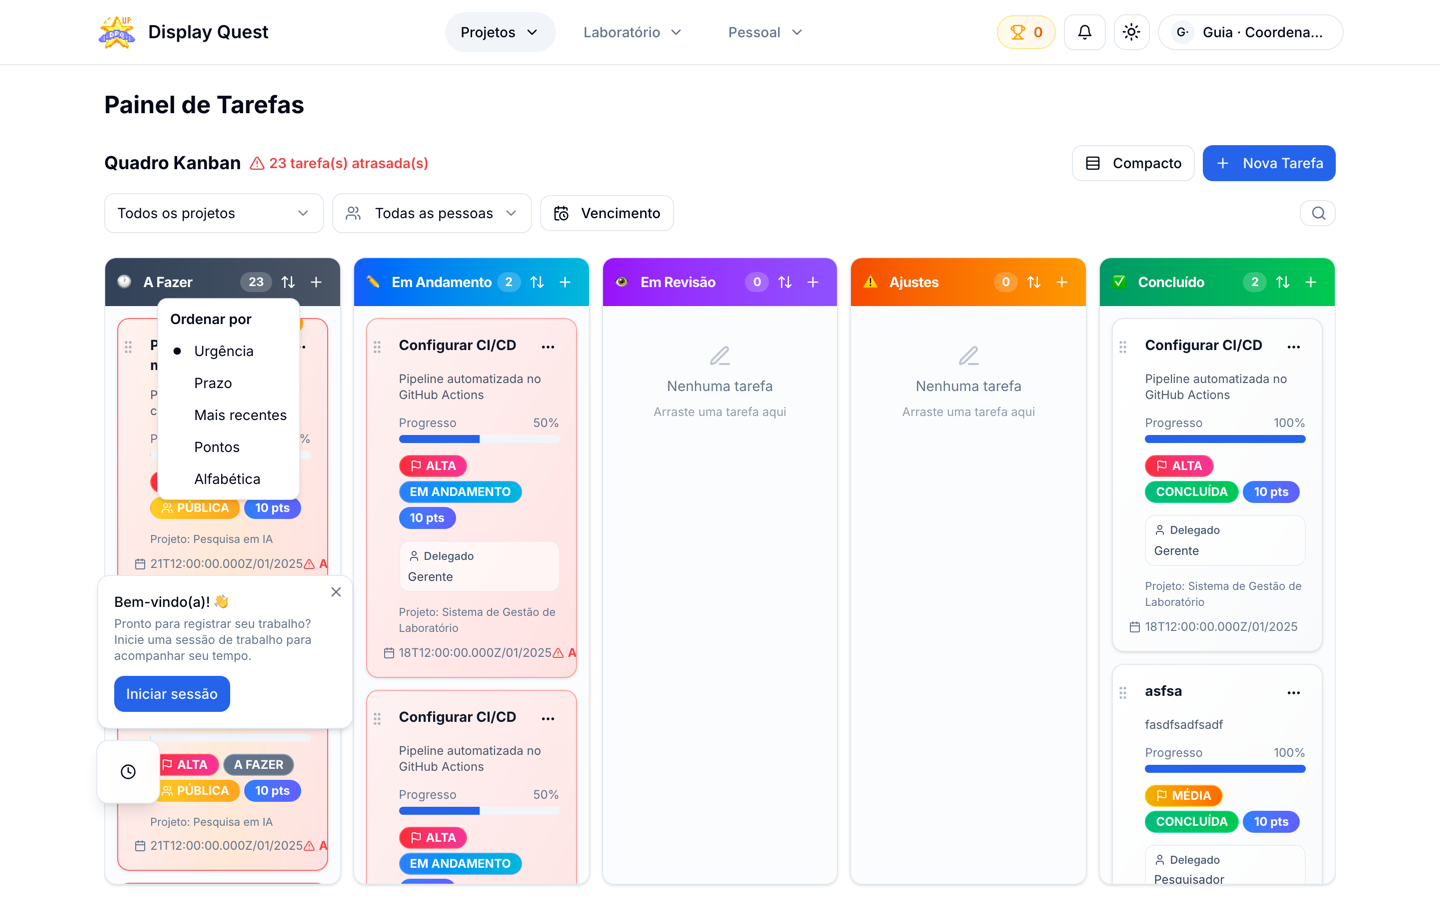
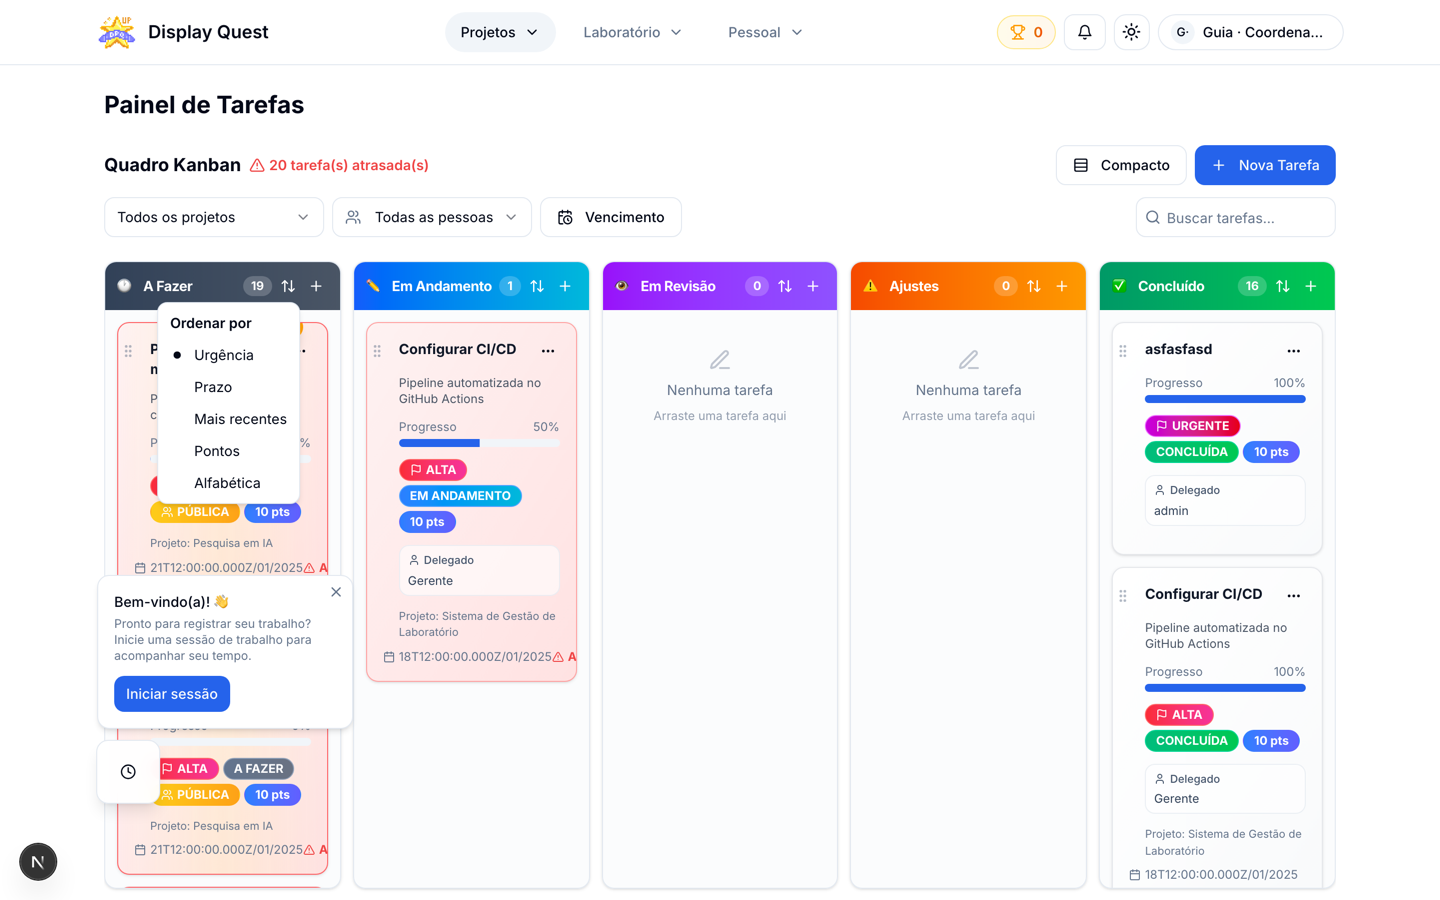
fix(tasks): o buscador do quadro ja nasce aberto no desktop e a barra inteira fica em h-10
Pedido do dono: a lupa-toggle do quadro "esta muito escondido (e com o height errado)". Medido: o
contêiner era w-9 com ~26px de altura numa fileira cujos vizinhos sao SelectTrigger de h-10 — o
campo de busca era o unico elemento baixo da barra, e o unico que exigia um clique so para existir.
No desktop (>= sm, 640px) ele agora nasce aberto em h-10 e sem toggle; no mobile o comportamento
antigo permanece intacto.

- useIsDesktop() (useSyncExternalStore sobre matchMedia) decide SO `tabIndex` e o collapse de blur.
  A visibilidade e CSS puro — `sm:w-[200px]` no contêiner, `sm:hidden` na lupa — entao nao ha flash
  de hidratacao. CSS e JS precisam concordar: se divergirem, o campo aparece aberto com tabIndex=-1 e
  o TECLADO nao o alcanca (a lupa esta em display:none, logo nao ha como clicar para abri-lo).
  Duas subarvores por breakpoint foram descartadas de proposito: duplicariam o aria-label do campo,
  e no jsdom (sem CSS carregado) as duas ficariam "visiveis" — getByRole("textbox") acharia dois.
- Os 4 `Button size="sm"` (h-9) da barra perderam o size e ficaram h-10, alinhados aos SelectTrigger.
  O `Button` global nao foi tocado — a mudanca e local do board-toolbar.
- O X de limpar so aparece com texto: com o campo sempre aberto ele ficaria visivel o tempo todo.

Medido no navegador (dev server, viewport real): desktop 200x40 aberto com o toggle ausente;
mobile 36x40 recolhido com o toggle presente; "Vencimento" e o Select de pessoas em 40 nos dois.
[…]

diff --git a/features/tasks/components/board-toolbar.tsx b/features/tasks/components/board-toolbar.tsx
@@ -5,10 +5,10 @@
  *  - overdue banner contrast (text-destructive on plain background — D-15.3)
  *  - action row wraps at 320px (legacy overflow fix, CP-1 observation)
  *  - filters are nuqs-backed (URL is source of truth)
- *  - search is an expanding icon (magnifier → input, GitHub-style)
+ *  - search is expanded by default on desktop (≥ `sm`); the magnifier toggle is mobile-only
  *  - "Atribuídas a mim" subsumed by the people select (current user = "(você)")
  */
-import { useRef, useState } from "react"
+import { useRef, useState, useSyncExternalStore } from "react"
 import { CalendarClock, LayoutGrid, Plus, Rows3, Search, TriangleAlert, Users, X } from "lucide-react"
 import { Button } from "@/components/ui/button"
 import {
@@ -26,6 +26,40 @@ import {
 } from "@/components/ui/select"
 import { cn } from "@/lib/utils/utils"
 import type { TaskFilters } from "@/lib/api/endpoints/tasks"
+
+/**
+ * Breakpoint `sm` do Tailwind (640px) — o mesmo que a classe `sm:` usada no JSX abaixo.
+ * As duas coisas precisam concordar: se o CSS disser "desktop" e o JS disser "mobile",
+ * o campo aparece aberto mas com `tabIndex={-1}` (teclado não alcança) e recolhe no blur.
+ */
+const DESKTOP_QUERY = "(min-width: 640px)"
+
+/** `null` quando não há `matchMedia` (navegador antigo, e o jsdom do Vitest, que não tem). */
+function desktopMedia(): MediaQueryList | null {
+  if (typeof window === "undefined" || typeof window.matchMedia !== "function") return null
+  return window.matchMedia(DESKTOP_QUERY)
+}
+
+function subscribeToDesktop(onChange: () => void) {
+  const mql = desktopMedia()
+  if (!mql) return () => {}
+  mql.addEventListener("change", onChange)
+  return () => mql.removeEventListener("change", onChange)
+}
+
+/**
+ * `false` no servidor e na hidratação — o que mantém o markup do servidor e o do primeiro
+ * render do cliente iguais. Não há flash: o *layout* desktop é garantido por CSS
+ * (`sm:w-[200px]` no contêiner, `sm:hidden` na lupa), então o que este hook decide é só
+ * comportamento invisível (`tabIndex` e o collapse de blur).
+ */
+function useIsDesktop(): boolean {
+  return useSyncExternalStore(
+    subscribeToDesktop,
+    () => desktopMedia()?.matches ?? false,
+    () => false,
+  )
+}
 
 export interface BoardToolbarProps {
   filters: TaskFilters
@@ -59,6 +93,10 @@ export function BoardToolbar({
 }: BoardToolbarProps) {
   const [searchOpen, setSearchOpen] = useState(Boolean(filters.search))
   const searchRef = useRef<HTMLInputElement>(null)
+  // No desktop não há toggle: o campo nasce aberto e nunca recolhe.
+  const isDesktop = useIsDesktop()
+  const searchExpanded = isDesktop || searchOpen
+  const searchTerm = filters.search ?? ""
 
   const currentUser = currentUserId ? users.find((u) => u.id === currentUserId) : undefined
   const otherUsers = users.filter((u) => u.id !== currentUserId)
@@ -76,10 +114,11 @@ export function BoardToolbar({
           )}
         </div>
 
+        {/* h-10 em toda a barra: os SelectTrigger são `h-10` e o `Button` default também
+            (o `size="sm"` é `h-9` e destoava 4px deles na mesma fileira). */}
         <div className="flex flex-wrap items-center gap-2">
           <Button
             variant="outline"
-            size="sm"
             onClick={onToggleCompact}
             aria-pressed={isCompact}
           >
@@ -94,7 +133,7 @@ export function BoardToolbar({
             )}
           </Button>
           {canCreateTasks && (
-            <Button size="sm" onClick={onCreateTask} disabled={isUpdating}>
+            <Button onClick={onCreateTask} disabled={isUpdating}>
               <Plus className="mr-1 h-4 w-4" aria-hidden="true" />
               Nova Tarefa
             </Button>
@@ -153,7 +192,6 @@ export function BoardToolbar({
           <DropdownMenuTrigger asChild>
             <Button
               variant={filters.overdue || filters.dueToday ? "secondary" : "outline"}
-              size="sm"
               aria-pressed={Boolean(filters.overdue || filters.dueToday)}
             >
               <CalendarClock className="mr-1 h-4 w-4" aria-hidden="true" />
@@ -189,24 +227,26 @@ export function BoardToolbar({
         {(filters.projectId || filters.overdue || filters.dueToday || filters.search || filters.assigneeId) && (
           <Button
             variant="ghost"
-            size="sm"
             onClick={() => onFiltersChange({})}
           >
             Limpar filtros
           </Button>
         )}
 
-        {/* Buscador expansível — no canto direito (ml-auto), não entre os selects. */}
+        {/* Buscador — no canto direito (ml-auto), não entre os selects.
+            Desktop (≥ `sm`): nasce aberto e não tem toggle; o `sm:w-[200px]` segura a
+            largura mesmo com `searchOpen === false`, e a lupa some (`sm:hidden`).
+            Mobile: a lupa abre o campo e o blur o recolhe se estiver vazio. */}
         <div
           className={cn(
-            "ml-auto flex items-center overflow-hidden rounded-md border bg-background px-1.5 transition-[width] duration-300 ease-in-out",
-            searchOpen ? "w-[200px]" : "w-9",
+            "ml-auto flex h-10 items-center overflow-hidden rounded-md border bg-background px-2 transition-[width] duration-300 ease-in-out",
+            searchExpanded ? "w-[200px]" : "w-9 sm:w-[200px]",
           )}
         >
           <button
             type="button"
             aria-label="Buscar tarefas"
-            className="shrink-0 rounded p-1 text-muted-foreground transition-colors hover:text-foreground"
+            className="shrink-0 rounded p-1 text-muted-foreground transition-colors hover:text-foreground sm:hidden"
             onClick={() => {
               setSearchOpen(true)
               requestAnimationFrame(() => searchRef.current?.focus())
@@ -214,29 +254,34 @@ export function BoardToolbar({
           >
             <Search className="h-4 w-4" aria-hidden="true" />
           </button>
+          {/* No desktop a lupa é só o ícone do campo — decorativa, sem toggle. */}
+          <Search className="hidden h-4 w-4 shrink-0 text-muted-foreground sm:block" aria-hidden="true" />
           <input
             ref={searchRef}
-            className="w-full min-w-0 bg-transparent text-sm outline-none placeholder:text-muted-foreground"
+            className="h-full w-full min-w-0 bg-transparent px-1.5 text-sm outline-none placeholder:text-muted-foreground"
             placeholder="Buscar tarefas..."
             aria-label="Buscar tarefas por título"
-            tabIndex={searchOpen ? 0 : -1}
-            value={filters.search ?? ""}
+            tabIndex={searchExpanded ? 0 : -1}
+            value={searchTerm}
             onChange={(e) => onFiltersChange({ ...filters, search: e.target.value || undefined })}
             onBlur={() => {
-              if (!(filters.search ?? "")) setSearchOpen(false)
+              if (!isDesktop && !searchTerm) setSearchOpen(false)
             }}
           />
-          <button
-            type="button"
-            aria-label="Limpar busca"
-            className="shrink-0 rounded p-0.5 text-muted-foreground transition-colors hover:text-foreground"
-            onClick={() => {
-              onFiltersChange({ ...filters, search: undefined })
-              searchRef.current?.focus()
-            }}
-          >
-            <X className="h-3.5 w-3.5" aria-hidden="true" />
-          </button>
+          {/* Sem texto não há o que limpar: o X ficaria visível o tempo todo no desktop. */}
+          {searchTerm && (
+            <button
+              type="button"
+              aria-label="Limpar busca"
+              className="shrink-0 rounded p-0.5 text-muted-foreground transition-colors hover:text-foreground"
+              onClick={() => {
+                onFiltersChange({ ...filters, search: undefined })
+                searchRef.current?.focus()
+              }}
+            >
+              <X className="h-3.5 w-3.5" aria-hidden="true" />
+            </button>
+          )}
         </div>
       </div>
     </div>

diff --git a/features/tasks/__tests__/board-people-filter.test.tsx b/features/tasks/__tests__/board-people-filter.test.tsx
@@ -3,7 +3,7 @@ import { NuqsTestingAdapter } from "nuqs/adapters/testing";
 import { SessionProvider } from "next-auth/react";
 import { render, screen, waitFor } from "@testing-library/react";
 import userEvent from "@testing-library/user-event";
-import { beforeEach, describe, expect, it, vi } from "vitest";
+import { afterEach, beforeEach, describe, expect, it, vi } from "vitest";
 import { TaskBoard } from "../components/task-board";
 import {
   resetTaskStore,
@@ -48,6 +48,34 @@ function renderBoard() {
 }
 
 const isoYesterday = () => new Date(Date.now() - 24 * 60 * 60 * 1000).toISOString();
+
+/**
+ * Medido nesta base: o jsdom do Vitest **não tem `window.matchMedia`** (e `tests/setup.ts`
+ * não instala), então quem decide desktop-vs-mobile no `BoardToolbar` é este stub — e sem
+ * ele todo teste cairia no caminho "sem matchMedia", que é o mobile.
+ *
+ * O `delete` no `afterEach` devolve o ambiente ao estado medido (regra da casa, igual em
+ * `tests/unit/components/points-catch-up.test.tsx`).
+ */
+function stubDesktopViewport(isDesktop: boolean) {
+  Object.defineProperty(window, "matchMedia", {
+    configurable: true,
+    value: (query: string) => ({
+      matches: isDesktop && query.includes("min-width"),
+      media: query,
+      onchange: null,
+      addEventListener: () => {},
+      removeEventListener: () => {},
+      addListener: () => {},
+      removeListener: () => {},
+      dispatchEvent: () => false,
+    }),
+  });
+}
+
+function uninstallMatchMedia() {
+  delete (window as unknown as Record<string, unknown>).matchMedia;
+}
 
 /** Opens the people select and clicks the given option (waits for the users fetch). */
 async function selectPerson(name: string) {
@@ -167,25 +195,44 @@ describe("TaskBoard — filtro por pessoa (select de pessoas)", () => {
   });
 });
 
-describe("TaskBoard — search (ícone de lupa expansível)", () => {
+describe("TaskBoard — busca no mobile (toggle da lupa continua)", () => {
   beforeEach(() => {
     resetTaskStore();
     resetUserStore();
+    stubDesktopViewport(false);
     seedTasks([
       { title: "Minha tarefa delegada", status: "to-do", assigneeIds: [2], taskVisibility: "delegated" },
       { title: "Minha tarefa atrasada", status: "to-do", assigneeIds: [2], taskVisibility: "delegated" },
     ]);
   });
 
+  afterEach(uninstallMatchMedia);
+
   it("expands from the magnifier and filters by title", async () => {
     renderBoard();
     await waitFor(() => expect(screen.getByText("Minha tarefa delegada")).toBeVisible());
     const user = userEvent.setup();
+    // Fechado, o campo existe mas fica fora da ordem de tabulação — como era antes.
+    expect(screen.getByRole("textbox", { name: "Buscar tarefas por título" })).toHaveAttribute(
+      "tabindex",
+      "-1",
+    );
     await user.click(screen.getByRole("button", { name: "Buscar tarefas" }));
     const input = screen.getByRole("textbox", { name: "Buscar tarefas por título" });
     await user.type(input, "atrasad");
     expect(screen.getByText("Minha tarefa atrasada")).toBeVisible();
     expect(screen.queryByText("Minha tarefa delegada")).not.toBeInTheDocument();
+  });
+
+  it("collapses back to the magnifier when blur happens with an empty search", async () => {
+    renderBoard();
+    await waitFor(() => expect(screen.getByText("Minha tarefa delegada")).toBeVisible());
+    const user = userEvent.setup();
+    await user.click(screen.getByRole("button", { name: "Buscar tarefas" }));
+    const input = screen.getByRole("textbox", { name: "Buscar tarefas por título" });
+    await user.click(input);
+    await user.tab();
+    expect(input).toHaveAttribute("tabindex", "-1");
   });
 
   it("clears the search via the X button", async () => {
@@ -197,5 +244,43 @@ describe("TaskBoard — search (ícone de lupa expansível)", () => {
     await user.click(screen.getByRole("button", { name: "Limpar busca" }));
     expect(screen.getByText("Minha tarefa delegada")).toBeVisible();
     expect(screen.getByText("Minha tarefa atrasada")).toBeVisible();
+  });
+});
+
+describe("TaskBoard — busca no desktop (campo já aberto, sem toggle)", () => {
+  beforeEach(() => {
+    resetTaskStore();
+    resetUserStore();
+    stubDesktopViewport(true);
+    seedTasks([
+      { title: "Minha tarefa delegada", status: "to-do", assigneeIds: [2], taskVisibility: "delegated" },
+      { title: "Minha tarefa atrasada", status: "to-do", assigneeIds: [2], taskVisibility: "delegated" },
+    ]);
+  });
+
+  afterEach(uninstallMatchMedia);
+
+  it("filters by title without opening the magnifier first", async () => {
+    renderBoard();
+    await waitFor(() => expect(screen.getByText("Minha tarefa delegada")).toBeVisible());
+    const input = screen.getByRole("textbox", { name: "Buscar tarefas por título" });
+    // O campo nasce aberto e **focável**: é o que o teclado precisa, já que a lupa some
+    // em `sm:`. Sem este `tabindex`, o desktop ficaria sem busca por teclado nenhum.
+    expect(input).toHaveAttribute("tabindex", "0");
+    await userEvent.setup().type(input, "atrasad");
+    expect(screen.getByText("Minha tarefa atrasada")).toBeVisible();
+    expect(screen.queryByText("Minha tarefa delegada")).not.toBeInTheDocument();
+  });
+
+  it("does not collapse on blur with an empty search", async () => {
+    renderBoard();
+    await waitFor(() => expect(screen.getByText("Minha tarefa delegada")).toBeVisible());
+    const user = userEvent.setup();
+    const input = screen.getByRole("textbox", { name: "Buscar tarefas por título" });
+    await user.click(input);
+    await user.tab();
+    expect(input).toHaveAttribute("tabindex", "0");
+    // Campo vazio e aberto não tem o que limpar, então o X não aparece.
+    expect(screen.queryByRole("button", { name: "Limpar busca" })).not.toBeInTheDocument();
   });
 });

diff --git a/tests/e2e/task-board.spec.ts b/tests/e2e/task-board.spec.ts
@@ -294,8 +294,8 @@ test.describe("task board flows", () => {
     await login(page);
     await expect(page.getByLabel("Coluna A Fazer")).toBeVisible({ timeout: 15_000 });
 
-    // O buscador é expansível (ícone de lupa): sem abrir, o input existe mas fica oculto.
-    await page.getByRole("button", { name: "Buscar tarefas" }).click();
+    // No desktop (≥640px) o campo de busca já nasce aberto e não há toggle de lupa —
+    // por isso não há botão para clicar aqui, só o campo.
     const busca = page.getByLabel("Buscar tarefas por título");
     await busca.fill("xyzzy-nenhuma-correspondencia");
     await expect(page).toHaveURL(/busca=xyzzy/);

diff --git a/AGENTS.md b/AGENTS.md
@@ -5,7 +5,7 @@ mitigação de segurança A1–A11 (spec em `.spec/`).
 
 ## Verificação
 
-- **Gate de entrega:** `npm run arch:check` (exit 0, allow-list **vazia**) && `npm run lint` (nada de erro) && `npx tsc --noEmit` (0) && `npx vitest run` (zero failure). A contagem é **por branch**: no `dev` o baseline era **64 arquivos / 721 testes** quando o B8 removeu os 651 testes de paridade; no `plan/v3-operacional`, medido no encerramento do plan-v3 (2026-10-03), são **65 arquivos / 798 testes** em `tests/unit` + `features` e **75 / 881** na suíte completa. Na `dev` de hoje (2026-10-05, depois do plan-v4 V4-1/V4-2/V4-3/V4-6) são **78 arquivos / 978 testes** e **88 / 1062** na suíte completa; a suíte e2e está **13/13**. Compare sempre com o `STATE.json` do plano em que você está.
+- **Gate de entrega:** `npm run arch:check` (exit 0, allow-list **vazia**) && `npm run lint` (nada de erro) && `npx tsc --noEmit` (0) && `npx vitest run` (zero failure). A contagem é **por branch**: no `dev` o baseline era **64 arquivos / 721 testes** quando o B8 removeu os 651 testes de paridade; no `plan/v3-operacional`, medido no encerramento do plan-v3 (2026-10-03), são **65 arquivos / 798 testes** em `tests/unit` + `features` e **75 / 881** na suíte completa. Na `dev` de hoje (2026-10-05, depois do plan-v4 V4-1/V4-2/V4-3/V4-6 e do buscador do quadro) são **78 arquivos / 981 testes** e **88 / 1065** na suíte completa; a suíte e2e está em **7 passando** — o 3º teste do quadro quebra por dado de lixo da instância, não por código, e como o spec é serial os outros 5 **nem rodam** (ver "Gotchas reais"). Compare sempre com o `STATE.json` do plano em que você está.
 - **G4/integração:** roundtrips Prisma real rodam **só** contra o banco de teste isolado `dq-dev-test-db` em `127.0.0.1:5433` (`$env:DATABASE_URL="postgresql://dq_dev:dq_dev_local_only@127.0.0.1:5433/dq_dev_test"; npx vitest run`) — nunca contra o `display-quest-db` (5432, produção local).
 - **Setup do G4 (corrigido 2026-10-02):** `npm run db:test:up` e `npm run db:test:setup` **existem**
   no `package.json` e fazem a sequência completa (`docker compose -f docker-compose.test.yml up -d`,
@@ -270,8 +270,21 @@ mitigação de segurança A1–A11 (spec em `.spec/`).
   coisas faziam `tests/e2e/task-board.spec.ts` nem entrar no quadro — `tests/e2e/helpers.ts`
   usava `getByLabel("Senha")` e o botão "Mostrar senha" também é um `label` acessível desse texto
   (agora `getByLabel("Senha", { exact: true })`), e o teste de busca preenchia o input sem abrir a
-  lupa (`?busca=` só existe depois de clicar em "Buscar tarefas"). Se a suíte e2e falhar no
-  primeiro teste com *strict mode violation*, suspeite de rótulo duplicado antes de olhar o DOM.
+  lupa — naquela versão `?busca=` só existia depois de clicar em "Buscar tarefas". Se a suíte e2e
+  falhar no primeiro teste com *strict mode violation*, suspeite de rótulo duplicado antes de olhar
+  o DOM.
+- **O buscador do quadro é desktop-first desde 2026-10-05 (`features/tasks/components/board-toolbar.tsx`):**
+  a lupa-toggle existe **só abaixo de `sm` (640px)**; no desktop o campo nasce aberto (`h-10`, igual
+  aos `SelectTrigger`), a lupa some e o blur nunca recolhe. O que importa ao mexer: **a visibilidade é
+  CSS puro** (`sm:w-[200px]` no contêiner, `sm:hidden` na lupa) e o JS via `useIsDesktop()`
+  (`useSyncExternalStore` sobre `matchMedia`, `getServerSnapshot` = `false`) decide **só**
+  `tabIndex` e o collapse de blur. Renderizar duas subárvores por breakpoint em vez disso duplica o
+  `aria-label` "Buscar tarefas por título" no DOM, e no jsdom (sem CSS carregado) as duas ficam
+  "visíveis" — o `getByRole("textbox")` acha dois e o teste cai. E a divergência CSS↔JS é o modo de
+  falha caro: se o `matchMedia` disser "mobile" e o CSS disser "desktop", o campo aparece aberto com
+  `tabIndex={-1}` e **não é alcançável pelo teclado**. `board-people-filter.test.tsx` fixa os dois
+  lados — mas note que o **jsdom desta base não tem `window.matchMedia`**, então sem o stub todo
+  teste cai no caminho mobile (é o `stubDesktopViewport` do arquivo que escolhe).
 - **A mesma correção existia em duas cópias, e só uma recebeu (medido 2026-10-05):** o
   `tests/e2e/shell.spec.ts` tinha `login()`/`CREDENTIALS` **próprios**, cópia do helper, e ficou
   com `getByLabel("Senha")` sem `exact` — os 3 testes do shell caíam no primeiro `fill` enquanto
@@ -283,6 +296,24 @@ mitigação de segurança A1–A11 (spec em `.spec/`).
   `baseURL: http://localhost:3001` (o compose do repo serve em 3000, e a suíte de integração
   precisa do banco). O spec do quadro cria e apaga as próprias tarefas — depois de rodar, confira
   `select count(*) from tasks where title like 'E2E%'` na base (tem que dar 0).
+- **O spec do quadro é `mode: "serial"` e depende do estado do teste anterior (medido 2026-10-05):**
+  o teste 3 ("leader approves") só acha o fixture porque o **teste 2** o moveu para `Em Revisão` —
+  rodar `-g "leader approves"` sozinho falha na linha 181 (`element(s) not found`) e isso **não é
+  regressão**, é o filtro quebrando a dependência. E como é serial, uma falha no 3 faz os outros 5
+  aparecerem como "did not run": leia a contagem antes de concluir que cinco testes quebraram.
+- **O e2e do quadro quebra por uso manual da instância, não por código (medido 2026-10-05):** o
+  teste 3 morre com *strict mode violation* — `Coluna Em Revisão` resolve **2** botões "Aprovar
+  tarefa" porque há **mais de um cartão** na coluna. Em 2026-10-05 era a tarefa **id 290 "fasdfas"**
+  (`status='in-review'`, `assignedTo=1`), que o dono tinha criado **testando o fluxo de revisão à
+  mão** — não é lixo, é uso legítimo da instância. Medido com `git stash` do batch: **o baseline
+  falha 3/3 com o mesmo erro**, então nunca é regressão. **Isto é recorrente, não um episodio:**
+  sempre que o dono mover uma tarefa para `Em Revisão` testando, o 3º teste quebra de novo e, como
+  o spec é serial, os outros 5 nem rodam. O conserto durável é escopar o locator no cartão do
+  fixture (como os outros testes do arquivo já fazem, e como o próprio docstring do arquivo promete
+  com "Self-contained"); o dono **recusou** em 2026-10-05, então o gate fica vermelho por decisão
+  conhecida. Quando o e2e falhar no 3º teste do quadro, **confirme com `git stash` antes de caçar
+  regressão** — e o mesmo vale para qualquer coluna: o teste usa a base de verdade, então um cartão
+  a mais em `A Fazer`/`Em Revisão`/`Ajustes`/`Concluído` vira strict mode violation da mesma forma.
 - **WebAudio em jsdom = degradar em silêncio:** o jsdom não implementa `AudioContext`, então o seam
   `lib/notifications/alert-sound.ts` cai no caminho "sem suporte" (interruptor desabilitado, som
   inaudível). Para provar a parte cliente ele é testado em `// @vitest-environment node` com
@@ -394,5 +425,13 @@ leitura do texto visível. São observações medidas na instância real, **não
   acordeão fechado (o coordenador vê só os rótulos, nenhum destino); grupo com um único destino
   visível é achatado em link direto (o pesquisador vê "Laboratório" como link). O mesmo cabeçalho
   se apresenta de duas formas.
-- **Dados de lixo na instância real:** tarefas "rewqr" e "asfsa", projeto "asdfasdf" — aparecem no
-  quadro e nas capturas.
+- **Cartões de teste manual na instância real:** o dono testa os fluxos pela mão, e o que sobra fica
+  visível no quadro e **versionado nas capturas do guia** — tarefas "rewqr" (×3), "asfsa" (×2),
+  "asdasfasd", "321321", "sfdasadf", "fdsafdsa", "sfddsfa", "afsdasd", "fasdfas" (id 290) e o projeto
+  "asdfasdf". **Não é lixo a limpar** (confirmado pelo dono em 2026-10-05): é uso legítimo da
+  instância, e por isso **persiste**. O que pesa de verdade: a tarefa 290 está com
+  `status='in-review'` e é o que **derruba o 3º teste do spec e2e do quadro** por *strict mode
+  violation* (dois botões "Aprovar tarefa" em `Em Revisão`). Conferido com `git stash`: o baseline
+  falha igual, então não é regressão — e o dono decidiu **não** escopar o locator nem mexer no dado
+  (ver a nota de e2e em "Gotchas reais"). Se isso incomodar nas capturas, a saída é recapturar, não
+  apagar dado.
